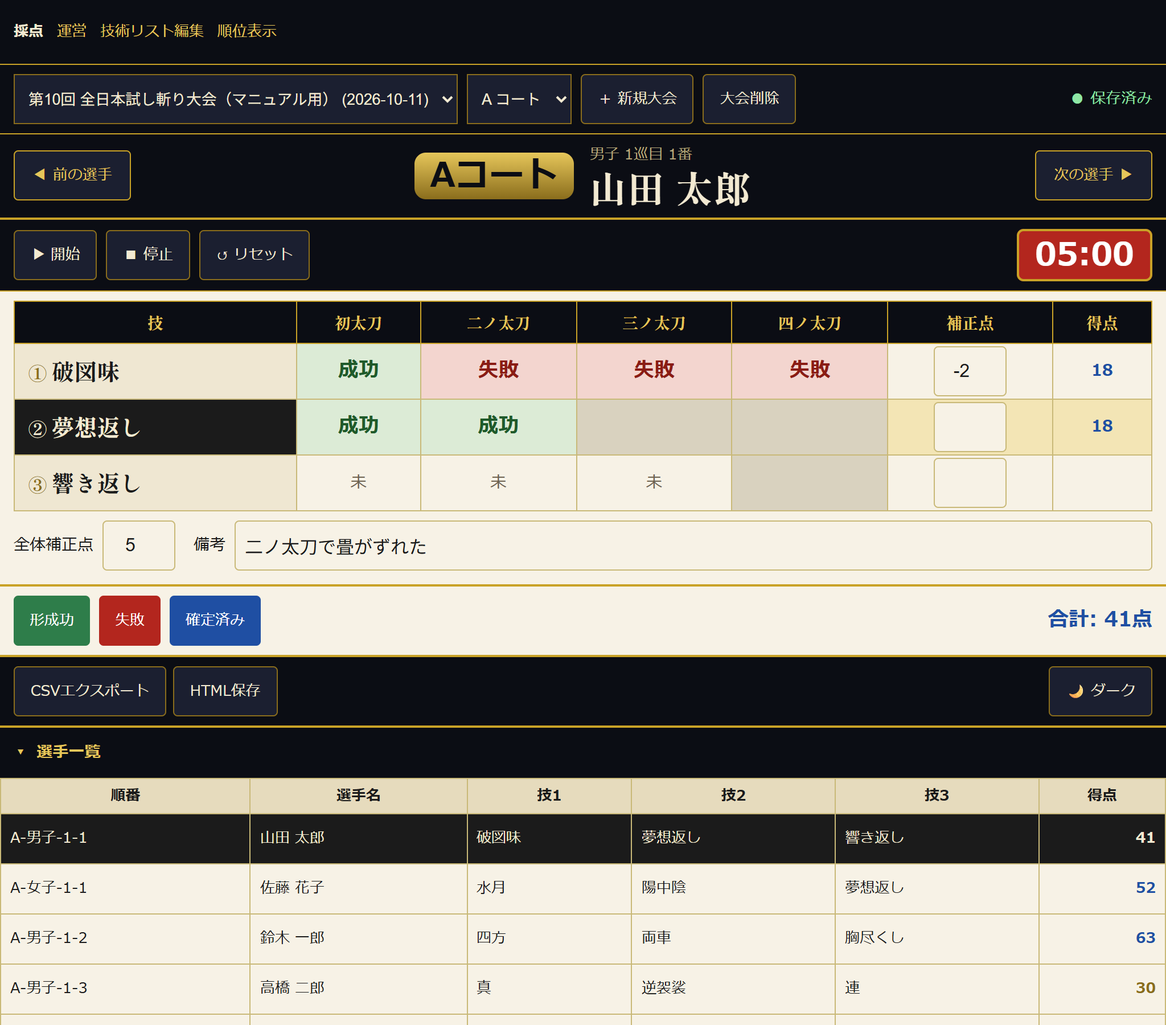
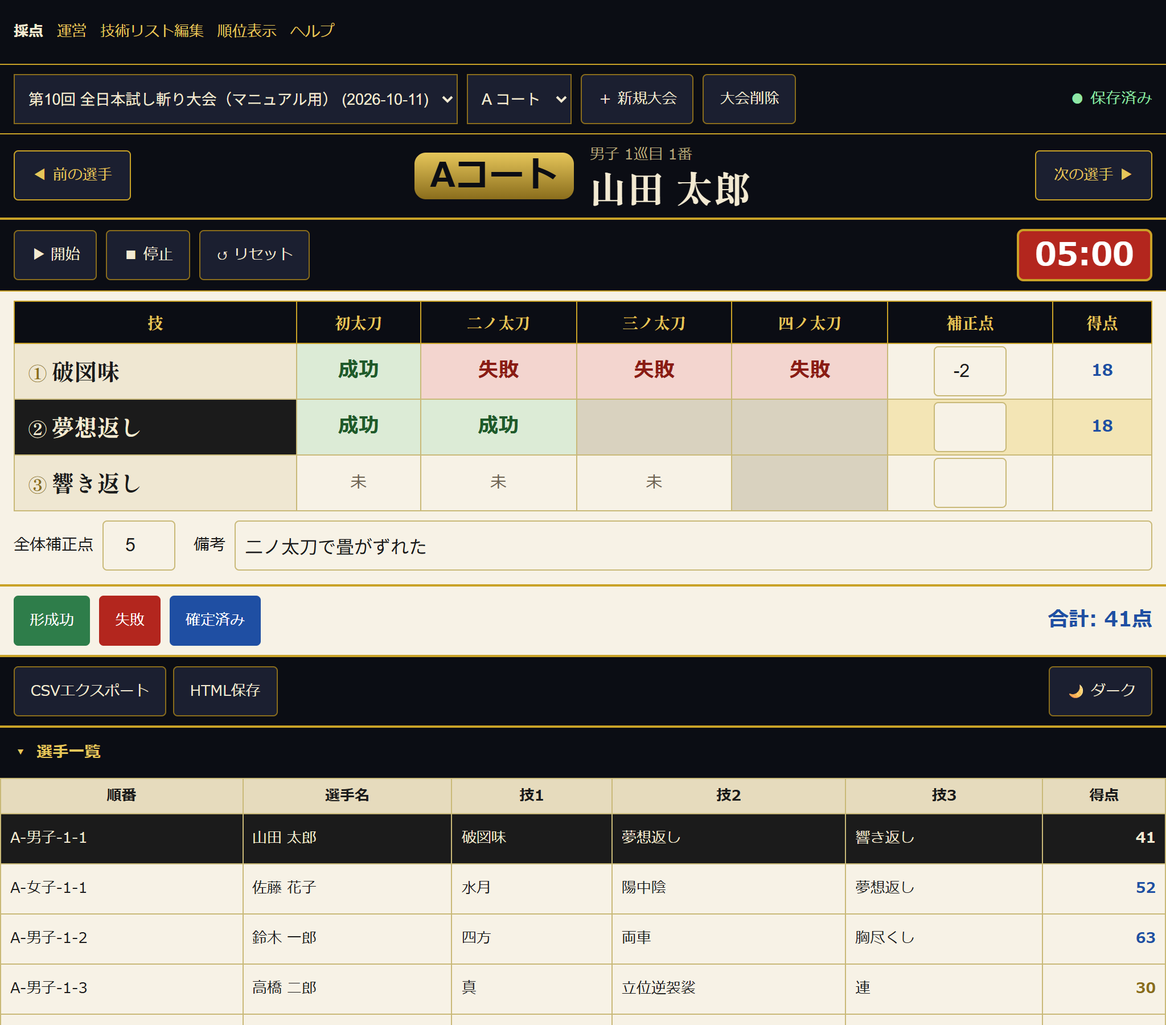
fix: マニュアルの事実誤り（技術リスト・未送信の扱い・URL・画像）を直し、二巡目の並び順と技の男女差を書く

diff --git a/help.html b/help.html
@@ -12,12 +12,12 @@
 <header class="help-band">
   <h1 class="help-title">マニュアル</h1>
   <p class="help-subtitle">運営者・審判のための、大会当日の手引き</p>
-  <nav class="page-links">
+  <nav class="page-links" aria-label="画面の切り替え">
     <a href="index.html">採点</a>
     <a href="admin.html">運営</a>
     <a href="techniques.html">技術リスト編集</a>
     <a href="ranking.html">順位表示</a>
-    <strong>マニュアル</strong>
+    <strong>ヘルプ</strong>
   </nav>
 </header>
 
@@ -121,6 +121,10 @@
   <section class="help-section" id="setup">
     <h2>1. 大会の作成</h2>
 
+    <h3>大会前の準備</h3>
+    <p>前日までに <span class="ui">技術リスト編集</span>（<code>techniques.html</code>）を開いて、技名と配点が今年のものになっているか確かめてください。</p>
+    <div class="note">大会が始まってから配点を変えると、すでに採点した選手の得点は変わらないまま、新しい配点との食い違いが残ります。配点の確認は必ず大会の前に済ませてください。</div>
+
     <h3>大会を作る</h3>
     <p>運営画面（<code>admin.html</code>）を開きます。</p>
     <ol>
@@ -165,11 +169,11 @@
     </figure>
 
     <h3>（b）複数人をまとめて登録する</h3>
-    <p>右上の <span class="ui">⋯</span> →  <span class="ui">👥 複数人をまとめて登録</span> を押します。</p>
+    <p>右上の <span class="ui">⋯</span> → <span class="ui">👥 複数人をまとめて登録</span> を押します。</p>
     <ul>
       <li><span class="ui">コート</span>・<span class="ui">性別</span>・<span class="ui">新人</span> はその場の全員に共通で付きます。</li>
       <li><span class="ui">名前（1行に1人）</span> の欄に名簿を貼り付けます。下に人数が出ます。</li>
-      <li><span class="ui">登録</span> を押すと、その人数がまとめて入ります。</li>
+      <li><span class="ui">登録</span> を押すと <span class="msg">A コート 男子 4 人を登録します。よろしいですか？</span> と確認が出ます。<span class="ui">OK</span> でまとめて入ります。</li>
     </ul>
     <div class="note">技はこの方法では入りません。あとから選手タブで1人ずつ入れてください。コートや性別が違う人は、条件ごとに分けて登録します。</div>
 
@@ -188,13 +192,20 @@
     <p>いちばん簡単な形は次の7列です。1行目は見出し行で、2列目が「コート」であれば、この形として読みます。</p>
     <div class="formula">名前 , コート , 性別 , 技① , 技② , 技③ , 新人</div>
     <ul>
-      <li>性別は <span class="ui">女</span> <span class="ui">女子</span> <span class="ui">○</span> <span class="ui">F</span> のいずれかで女子、ほかは男子になります。</li>
+      <li>性別は <span class="ui">女</span> <span class="ui">女子</span> <span class="ui">○</span> <span class="ui">F</span> <span class="ui">f</span> のいずれかで女子、ほかは男子になります。</li>
       <li>新人は <span class="ui">○</span> <span class="ui">1</span> <span class="ui">はい</span> <span class="ui">新人</span> のいずれかで新人になります。</li>
       <li>順番はサーバーが自動で採番します。CSV に書く必要はありません。</li>
-      <li>コート名に <span class="ui">-</span> は使えません。<span class="ui">未分類</span> も使えません。</li>
+      <li>コート名は32文字までです。<span class="ui">-</span> は使えません。<span class="ui">未分類</span> も使えません。</li>
     </ul>
     <p>採点画面の <span class="ui">CSVエクスポート</span> が出す従来の形（<span class="ui">選手名</span> <span class="ui">順番</span> … の15列）もそのまま読み込めます。この形では順番は CSV の値をそのまま使います。</p>
-    <div class="note">すでに選手がいる大会に読み込むと、<span class="term">クリアして読み込む</span>か<span class="term">追記する</span>かを聞かれます。採点済みの選手がいるときは、失われる人数を示して、もう一度確認します。他のコートの採点も消えるので、当日はできるだけ追記を選んでください。</div>
+
+    <p>すでに選手がいる大会に読み込むと、確認が順に出ます。</p>
+    <ul>
+      <li><span class="msg">既存データをクリアして読み込みますか？（キャンセルで追記）</span> — <span class="ui">OK</span> でクリア、<span class="ui">キャンセル</span> で追記になります。</li>
+      <li><span class="term">クリア</span>を選び、採点済みの選手がいるときは、失われる人数を示してもう一度確認します。他のコートの採点も一緒に消えます。</li>
+      <li><span class="term">追記</span>を選ぶと <span class="msg">同じ順番の選手がいると重複します。追記しますか？</span> と別の確認が出ます。</li>
+    </ul>
+    <div class="note">当日はできるだけ追記を選んでください。クリアして入れ直すと選手の ID が変わるため、その前に採点していたコートの端末で「保存できなかった採点が n 件あります」が出ることがあります（§5 を見てください）。</div>
 
     <h3>技の選び方</h3>
     <p>技の枠（<span class="ui">①</span> <span class="ui">②</span> <span class="ui">③</span>）をタップすると、技を選ぶシートが開きます。</p>
@@ -202,16 +213,27 @@
       <li>上の欄に技名を打つと絞り込めます（<span class="ui">技名で絞り込み</span>）。</li>
       <li>見出し行は <span class="ui">技名</span> <span class="ui">初太刀</span> <span class="ui">二ノ太刀</span> <span class="ui">三ノ太刀</span> <span class="ui">四ノ太刀</span> で、右側の数字がその太刀の配点です。</li>
       <li><span class="ui">—</span> はその太刀を打たないという意味です。採点画面でも灰色になり、押せません。</li>
-      <li>いちばん上の <span class="ui">（この枠を空にする）</span> を選ぶと、その枠を空にできます。技は3つに満たなくてもかまいません。</li>
+      <li>いちばん上の <span class="ui">（この枠を空にする）</span> を選ぶと、その枠を空にできます。</li>
     </ul>
+    <p>技は一巡目・二巡目とも3つ入れるのが基本です。事情があれば2つでも採点はできます。</p>
+    <div class="note"><span class="term">男女で配点が違う技があります。</span><span class="ui">胸尽くし</span>・<span class="ui">水月</span>・<span class="ui">破図味</span> には <span class="ui">(男)</span> と <span class="ui">(女)</span> が付いた2つの行があり、別の技として扱われます。選手の性別と同じほうを選んでください。違うほうを選んでもエラーは出ず、選んだ行の配点でそのまま計算されます。</div>
 
     <figure class="shot-mobile">
       <img src="help/img/admin_tech_sheet.png" loading="lazy" alt="技を選ぶシート。上に絞り込みの入力欄、見出し行、技名と各太刀の配点の一覧。">
       <figcaption>技を選ぶシート。見出しは <span class="ui">1つ目の技を選ぶ</span> のように、どの枠を選んでいるかを示します。</figcaption>
     </figure>
 
+    <h3>選手を直す・消す</h3>
+    <p>選手タブの行をタップすると <span class="ui">選手を編集</span> のシートが開きます。名前・コート・性別・新人・技を直して <span class="ui">保存</span> を押します。</p>
+    <ul>
+      <li>採点済みの選手の性別や技を変えると <span class="msg">この選手は採点済みです（n点）。得点が変わる可能性があります。採点画面でこの選手を開き直してください。</span> と確認が出ます。得点はサーバーでは計算し直されないので、採点画面で開き直してください。</li>
+      <li>同じシートの <span class="ui">この選手を削除</span> で消せます。一巡目の選手を消すときは <span class="msg">二巡目の行は残ります。</span> と断りが出ます。</li>
+      <li>採点済みの選手を消すときは <span class="msg">削除すると採点結果は戻せません。</span> ともう一度確認が出ます。</li>
+    </ul>
+
     <h3>順番の付きかた</h3>
     <p>順番は <span class="ui">コート-性別-巡目-番号</span> の形で自動で付きます。たとえば <span class="ui">A-男子-1-1</span> は「A コートの男子、一巡目の1番」です。</p>
+    <p>二巡目の並び順は一巡目と変わります。§2 の「二巡目に進む」を見てください。</p>
     <p><a class="back-to-toc" href="#toc">▲ 目次へ</a></p>
   </section>
 
@@ -279,23 +301,25 @@
 
     <h3>コートの端末で採点画面を開く</h3>
     <p>運営画面の <span class="ui">進行</span> タブで、そのコートのチップ（<span class="ui">A コート</span> や <span class="ui">B コート</span>）を押してから <span class="ui">採点画面へ</span> を押します。絞り込み中のコートのまま採点画面が開きます。</p>
-    <p>開いた採点画面の URL には大会とコートが入っています。その URL をコートの端末でブックマークしておくと、翌年以降も同じ手順で開けます。</p>
+    <p>開いた採点画面の URL には大会とコートが入っています（<code>#event/大会ID/コート</code>）。この URL のおかげで、当日はタブを閉じたり端末を再起動したりしても、同じ大会・同じコートに戻れます。</p>
+    <div class="note">URL は大会ごとに違います。次の大会では URL も変わるので、運営画面の <span class="ui">採点画面へ</span> から開き直してください。</div>
 
     <h3>採点画面の見方</h3>
 
     <figure>
-      <img src="help/img/scoring_tablet.png" loading="lazy" alt="タブレットで開いた採点画面。上から、大会とコートの選択バー、選手名の帯、タイマー、採点表、全体補正点と備考、形成功・失敗・確定のボタンと合計、下部の選手一覧。">
+      <img src="help/img/scoring_tablet.png" loading="lazy" alt="タブレットで開いた採点画面。上から、大会とコートの選択バー、選手名の帯、タイマー、採点表、全体補正点と備考、形成功・失敗・確定のボタンと合計、ツールバー、下部の選手一覧。">
       <figcaption>
-        <span class="cap-head">採点画面（タブレット。確定済みの選手）</span>
+        <span class="cap-head">採点画面（タブレット。確定済みの選手）— 画面の上から順に</span>
         <ul>
-          <li>①上のバー — 大会とコートを選びます。右の <span class="ui">● 保存済み</span> がサーバーへの保存の様子です。</li>
+          <li>①大会バー — 大会とコートを選びます。右の <span class="ui">● 保存済み</span> がサーバーへの保存の様子です。同じバーの <span class="ui">大会削除</span> は確認1回で消えるので、押し間違えに注意してください。</li>
           <li>②選手の帯 — コートのバッジ・順番・名前。<span class="ui">◀ 前の選手</span> <span class="ui">次の選手 ▶</span> で移ります。</li>
-          <li>③タイマー — <span class="ui">▶ 開始</span> <span class="ui">■ 停止</span> <span class="ui">↺ リセット</span>。5分から0へ向かって数えます。</li>
-          <li>④採点表 — 技名をタップするとその行が選ばれます（黒く反転します）。太刀のセルは押すたびに <span class="ui">未</span> → <span class="ui">成功</span> → <span class="ui">失敗</span> → <span class="ui">未</span> と変わります。灰色のセルは、その技で打たない太刀です。</li>
-          <li>⑤<span class="ui">形成功</span> <span class="ui">失敗</span> — どちらも選択中の行にだけ効きます。<span class="ui">形成功</span> は打つ太刀を全部「成功」に、<span class="ui">失敗</span> は「未」のセルだけを「失敗」にします（すでに成功のセルは変えません）。</li>
-          <li>⑥補正点 — 表の <span class="ui">補正点</span> 欄はその技だけに、表の下の <span class="ui">全体補正点</span> は選手全体に効きます。マイナスも入れられます。<span class="ui">備考</span> は得点に影響しません（200文字まで）。</li>
-          <li>⑦<span class="ui">確定</span> — 押すと <span class="ui">確定済み</span> になり、得点と合計が青くなります。得点に関わる編集をすると、自動で確定が外れます。</li>
-          <li>⑧選手一覧 — 行をタップするとその選手に切り替わります。見出しの <span class="ui">▾ 選手一覧</span> で開閉できます。</li>
+          <li>③タイマー — <span class="ui">▶ 開始</span> <span class="ui">■ 停止</span> <span class="ui">↺ リセット</span>。5分から0へ向かって数えます。選手を切り替えると自動で <span class="ui">05:00</span> に戻ります。</li>
+          <li>④採点表 — 技名をタップするとその行が選ばれます（黒く反転します）。太刀のセルは押すたびに <span class="ui">未</span> → <span class="ui">成功</span> → <span class="ui">失敗</span> → <span class="ui">未</span> と変わります。灰色のセルは、その技で打たない太刀です。<span class="term">行がまるごと灰色で得点の欄も空のときは、その技名が技術リストに無い状態です</span>（配点を引けず0点のままになります）。§5 の「技が見つからない」を見てください。</li>
+          <li>⑤<span class="ui">補正点</span>・<span class="ui">得点</span> の列 — <span class="ui">補正点</span> はその技だけに効きます。マイナスも入れられます。<span class="ui">得点</span> はその行の合計で、こちらは自動です。</li>
+          <li>⑥<span class="ui">全体補正点</span>・<span class="ui">備考</span> — <span class="ui">全体補正点</span> は選手全体に効きます。<span class="ui">備考</span> は得点に影響しません（200文字まで）。</li>
+          <li>⑦<span class="ui">形成功</span> <span class="ui">失敗</span> <span class="ui">確定</span> と <span class="ui">合計</span> — <span class="ui">形成功</span> <span class="ui">失敗</span> はどちらも選択中の行にだけ効きます。<span class="ui">形成功</span> は打つ太刀を全部「成功」に、<span class="ui">失敗</span> は「未」のセルだけを「失敗」にします（すでに成功のセルは変えません）。<span class="ui">確定</span> を押すと <span class="ui">確定済み</span> になり、得点と合計が青くなります。得点に関わる編集をすると、自動で確定が外れます。</li>
+          <li>⑧ツールバー — <span class="ui">CSVエクスポート</span> で全選手の内訳を、<span class="ui">HTML保存</span> で成績表を保存できます。<span class="ui">🌙 ダーク</span> で暗い配色に切り替わります。</li>
+          <li>⑨選手一覧 — 行をタップするとその選手に切り替わります。見出しの <span class="ui">▾ 選手一覧</span> で開閉できます。</li>
         </ul>
       </figcaption>
     </figure>
@@ -315,10 +339,15 @@
     <ol>
       <li>上に <span class="ui">一巡目 採点済み 8 / 8</span> のように進み具合が出ます。全員終わっているか確かめます。</li>
       <li><span class="ui">二巡目を生成</span> を押す。確認のあと、全コート分の二巡目の行ができます。</li>
-      <li>行ごとに <span class="ui">① ＋</span> <span class="ui">② ＋</span> <span class="ui">③ ＋</span> をタップして技を入れます。赤い枠はまだ空という意味です。</li>
+      <li>行ごとに <span class="ui">① ＋</span> <span class="ui">② ＋</span> <span class="ui">③ ＋</span> をタップして技を入れます。赤い枠はまだ空という意味です。3つ入れるのが基本です。</li>
       <li>一巡目と同じ技でよければ <span class="ui">一巡目と同じ技をコピー</span> を押すだけで済みます。</li>
     </ol>
     <p>技が入ると、各コートの採点画面の選手一覧に二巡目の選手が並びます。</p>
+
+    <h3>二巡目の並び順</h3>
+    <p>二巡目の出番は、<span class="term">一巡目の得点が低い人から</span>の順になります。同じコートでは女子が先です。一巡目とは出番の順が変わるので、番号を読み上げるときは気をつけてください。</p>
+    <div class="note">未採点が残ったまま <span class="ui">二巡目を生成</span> を押すと <span class="msg">未採点が n 名います。このまま生成すると、あとから入る一巡目の得点は二巡目の並び順に反映されません。</span> と確認が出ます。並び順を正しくするため、全員の採点が終わってから押してください。</div>
+    <p>コートが決まっていない選手の二巡目は作れません。生成のあとのトーストに <span class="msg">（コート未設定の n 名は作っていません）</span> と出ます。選手タブでコートを設定してから、もう一度生成してください。</p>
 
     <figure class="shot-mobile">
       <img src="help/img/admin_round.png" loading="lazy" alt="運営画面の進行タブ。一巡目の採点済み数、「二巡目を生成」「採点画面へ」、コート絞り込み、二巡目の選手と技の枠。">
@@ -334,10 +363,12 @@
     <p>採点はいったん端末に貯めてからサーバーへ送ります。電波が弱くても、採点そのものは止まりません。</p>
     <ul>
       <li><span class="ui">● 保存済み</span> — サーバーまで届いています。</li>
+      <li><span class="ui">◌ 保存中…</span> — いま送っているところです。</li>
       <li><span class="ui">⚠ 未保存 3 件・再送中</span> — まだ届いていない採点があり、送り直しています。そのまま採点を続けてかまいません。</li>
       <li>最初の失敗から30秒たっても残っていると、上に <span class="ui">⚠ サーバーに保存できていません</span> のバナーと <span class="ui">今すぐ再試行</span> ボタンが出ます。通信を確かめてから押してください。</li>
     </ul>
-    <div class="note">未保存が残っている間は、その端末を閉じたりページを離れたりしないでください。離れようとすると確認が出ます。</div>
+    <p>貯めた分は端末の中（ブラウザの保存領域）にも控えます。電池切れやアプリの再起動で消えることはありません。次にその端末で採点画面を開くと <span class="msg">前回未送信の採点 n 件を送信します。</span> と出て、自動で送り直します。</p>
+    <div class="note">控えはその端末のそのブラウザにしかありません。別の端末や別のブラウザからは送れませんし、ブラウザのサイトデータを消すと失われます。できるだけ <span class="ui">● 保存済み</span> になってから閉じてください。未保存のままページを離れようとすると確認が出ます。</div>
 
     <h3>ほかの端末が書いた内容の取り込み</h3>
     <p>選手を切り替えたときと、ほかのアプリから採点画面に戻ってきたときに、サーバーから読み直します。運営画面や別のコートが付けた確定・備考・得点は、このときに画面へ入ります。</p>
@@ -361,7 +392,7 @@
 
     <h3>技の配点を変える</h3>
     <p>配点は <span class="ui">技術リスト編集</span>（<code>techniques.html</code>）で変えられます。技名ごとに <span class="ui">初太刀</span> から <span class="ui">四ノ太刀</span> までの点を入れ、<span class="ui">保存</span> を押します。</p>
-    <div class="note">配点を変えても、すでに採点した選手の得点は変わりません。変えたときは、その技を使った選手を採点画面で開き直して採点し直してください。大会が始まってからの変更は避けるのが安全です。</div>
+    <div class="note">配点を変えても、すでに採点した選手の得点は変わりません。変えたときは、その技を使った選手を採点画面で開き直して採点し直してください。大会が始まってからの変更は避けてください。</div>
 
     <h3>部門と順位</h3>
     <ul>
@@ -370,11 +401,13 @@
       <li>順位は同じ名前の選手の得点を足し合わせて付きます。つまり<span class="term">一巡目と二巡目の合計</span>で並びます。</li>
       <li>同点は同順位です。同点が2人いたら、次の人は3位になります。</li>
     </ul>
+    <div class="note">合算は<span class="term">氏名だけ</span>で行います。同姓同名の別人がいると、1人として足されてしまいます。名簿の段階で区別できる名前にしておいてください。</div>
 
     <h3>確認する場所</h3>
     <ul>
       <li><span class="term">運営画面の結果タブ</span> — <span class="ui">最新に更新</span> を押すと、サーバーの最新の順位を読み直します。</li>
       <li><span class="term">順位表示ページ</span>（<code>ranking.html</code>） — 大会を選んで <span class="ui">大会データを読み込む</span>。<span class="ui">HTMLダウンロード</span> で1枚の成績表として保存できます。</li>
+      <li><span class="term">運営画面の進行タブ</span> — 右上の <span class="ui">⋯</span> → <span class="ui">CSVエクスポート</span> で全選手の内訳を保存できます。</li>
       <li><span class="term">採点画面</span> — <span class="ui">CSVエクスポート</span> で全選手の内訳を、<span class="ui">HTML保存</span> で成績表を保存できます。</li>
     </ul>
 
@@ -431,12 +464,12 @@
     <h3>参加者に配る（共有リンク）</h3>
     <ol>
       <li>結果タブで <span class="ui">共有リンクをコピー</span> を押す。</li>
-      <li><span class="ui">リンクをコピーしました</span> と出たら、その URL を配ります（コピーできない環境では、URL がそのまま表示されます）。</li>
+      <li><span class="msg">リンクをコピーしました</span> と出たら、その URL を配ります（コピーできない環境では、URL がそのまま表示されます）。</li>
     </ol>
     <ul>
       <li>URL は <code>share.html#（トークン）</code> の形です。大会ごとに1本で、何度押しても同じ URL が返ります。</li>
       <li>受け取った人は、ログインなしで順位だけを見られます。採点や書き換えはできません。</li>
-      <li>採点が進んだあとでも、同じ URL を開き直せば最新の順位が出ます。配り直す必要はありません。</li>
+      <li>ページを開いたままにしておくと、60秒ごとに自動で最新の順位に変わります。配り直す必要はありません。</li>
     </ul>
 
     <figure class="shot-mobile">
@@ -484,8 +517,9 @@
     <p>その選手にまだ技が入っていません。運営画面の <span class="ui">進行</span> タブでその選手の <span class="ui">① ＋</span> <span class="ui">② ＋</span> <span class="ui">③ ＋</span> をタップして技を入れてください。<span class="ui">一巡目と同じ技をコピー</span> でもかまいません。</p>
 
     <h3>「内訳を復元できません（技の数が変わっています）。」と出る</h3>
-    <p>採点したあとで技の数が変わった選手です。前の内訳はもう表に戻せません。その場で採点し直してください。採点し直すと、表示されている今の得点は置き換わります。</p>
-    <p>採点し直すまでは、その選手のデータは書き換えられません。選手を切り替えても得点は消えないので、あわてなくて大丈夫です。</p>
+    <p>採点したあとで技の数が変わった選手です。前の内訳はもう表に戻せません。その場で採点し直してください。</p>
+    <p>表に触ると <span class="msg">記録済みの n点 を、いま入力する内容で置き換えます。よろしいですか？</span> と確認が出ます。<span class="ui">OK</span> を押してから採点し直してください。</p>
+    <p>採点し直すまでは、その選手のデータは書き換えられません。選手を切り替えても得点は消えないので、あわてなくて大丈夫です。<span class="ui">備考</span> だけは、復元できない選手でもそのまま保存できます。</p>
 
     <h3>「⚠ 未保存 n 件・再送中」が消えない</h3>
     <p>サーバーに届いていない採点が残っています。</p>
@@ -494,10 +528,20 @@
       <li>端末を閉じずにそのまま待つ。つながれば自動で送られます。</li>
       <li>バナーの <span class="ui">今すぐ再試行</span> を押す。</li>
     </ol>
-    <div class="note">未保存が残っている端末を閉じると、その採点は失われます。0件（<span class="ui">● 保存済み</span>）になってから閉じてください。</div>
+    <p>閉じてしまっても、同じ端末の同じブラウザで採点画面を開き直せば <span class="msg">前回未送信の採点 n 件を送信します。</span> と出て送り直せます。ただし別の端末からは送れないので、できるだけ <span class="ui">● 保存済み</span> になってから閉じてください。</p>
+
+    <h3>「保存できなかった採点が n 件あります」と出る</h3>
+    <p>送ろうとした選手が、サーバーの名簿からいなくなっています。名簿を <span class="term">クリアして読み込む</span> で入れ直した直後に起きます。入れ直すと選手の ID が変わるため、その前に採点していた分は送り先を失います。</p>
+    <p>ダイアログに選手 ID と点数が並びます。該当する選手を採点画面で開き、採点を確認して入力し直してください。</p>
 
     <h3>技が見つからない</h3>
-    <p>技を選ぶシートの絞り込みに出てこないときは、<span class="ui">技術リスト編集</span> にその技があるか確かめてください。無ければ行を足して <span class="ui">保存</span> します。</p>
+    <p>技を選ぶシートの絞り込みに出てこない、あるいは採点表の行がまるごと灰色になるときは、その技名が <span class="ui">技術リスト編集</span> にあるか確かめてください。</p>
+    <div class="note">技術リスト編集では<span class="term">行を足せません</span>。できるのは、すでにある行の技名と配点を書き換えて <span class="ui">保存</span> するか、<span class="ui">デフォルトに戻す</span> かのどちらかです。</div>
+    <p>対処は2つあります。</p>
+    <ol>
+      <li>使っていない行の技名と配点を書き換えて <span class="ui">保存</span> する。</li>
+      <li>選手の技を、リストにある名前に直す。運営画面の選手タブで選手をタップ → <span class="ui">選手を編集</span> のシートで技の枠から選び直します。</li>
+    </ol>
     <p>技名は完全に一致したものを探します。前後に空白が入っていると別の技として扱われ、配点が0になります。</p>
 
     <h3>二巡目を生成できない</h3>
@@ -510,8 +554,8 @@
     </ul>
 
     <figure class="shot-mobile">
-      <img src="help/img/admin_menu.png" loading="lazy" alt="運営画面の右上「⋯」メニュー。採点画面・技術リスト編集・順位表示の項目。">
-      <figcaption>運営画面の <span class="ui">⋯</span> メニュー。<span class="ui">❓ ヘルプ</span> は <span class="ui">🏆 順位表示</span> の下に並びます（この画像はヘルプを足す前のものです）。</figcaption>
+      <img src="help/img/admin_menu.png" loading="lazy" alt="運営画面の右上「⋯」メニュー。採点画面・技術リスト編集・順位表示・ヘルプの項目。">
+      <figcaption>運営画面の <span class="ui">⋯</span> メニュー。<span class="ui">❓ ヘルプ</span> は <span class="ui">🏆 順位表示</span> の下にあります。</figcaption>
     </figure>
     <p><a class="back-to-toc" href="#toc">▲ 目次へ</a></p>
   </section>

diff --git a/help.css b/help.css
@@ -123,7 +123,8 @@ code {
 }
 .help-section li { margin-bottom: 4px; }
 
-/* 画面の文言（ボタン名・見出し）はこの体裁で示す */
+/* 画面の文言（ボタン名・見出し・状態表示）はこの体裁で示す。
+   短いので折り返さない。 */
 .ui {
   display: inline-block;
   background: var(--bg-secondary);
@@ -132,6 +133,16 @@ code {
   padding: 0 5px;
   font-size: 14px;
   white-space: nowrap;
+}
+/* 確認ダイアログ・トーストの文。.ui と違い1文まるごとなので必ず折り返す
+   （nowrap のままだとスマホ幅でページごと横にはみ出す）。
+   box-decoration-break は既定の slice のままにすること。clone にすると
+   折り返した各行が枠で囲まれ、1つの文が別々の文言に見えてしまう。 */
+.msg {
+  background: var(--bg-secondary);
+  border-left: 3px solid var(--gold-deep);
+  padding: 0 5px;
+  font-size: 14px;
 }
 /* 用語の言い換え */
 .term { font-weight: bold; }
